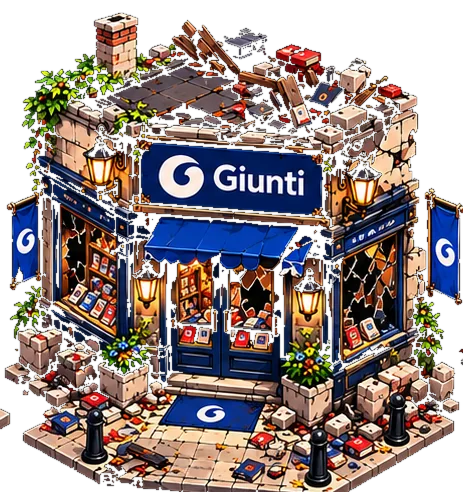
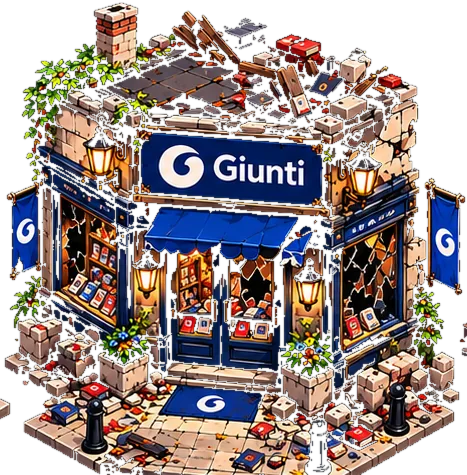
feat(art): integrate latest modular street and blue Giunti sprites

diff --git a/src/game/GameScene.ts b/src/game/GameScene.ts
@@ -55,8 +55,8 @@ type Loot = { sprite: Phaser.GameObjects.Image; kind: LootKind };
 const WIDTH = 960;
 const HEIGHT = 900;
 const FINISH_X = 25000;
-const ROAD_TOP = 120;
-const ROAD_BOTTOM = 780;
+const ROAD_TOP = 165;
+const ROAD_BOTTOM = 735;
 
 function distance(a: { x: number; y: number }, b: { x: number; y: number }): number {
   return Phaser.Math.Distance.Between(a.x, a.y, b.x, b.y);
@@ -706,7 +706,7 @@ export class GameScene extends Phaser.Scene {
     if (this.textures.exists('street-art')) {
       const street = this.add.tileSprite(0, 0, totalWidth, HEIGHT, 'street-art')
         .setOrigin(0, 0).setDepth(0);
-      // V4 artwork is a mirrored, horizontally seamless street image.
+      // The new modular-art roadway repeats seamlessly along the extended route.
       // Keep the pavement/curb proportions consistent when adapting its height.
       const sourceHeight = this.textures.get('street-art').source[0].height;
       const tileScale = HEIGHT / sourceHeight;
@@ -719,8 +719,8 @@ export class GameScene extends Phaser.Scene {
       for (let x = 30; x < totalWidth; x += 120) g.fillRect(x, HEIGHT / 2 - 3, 62, 6);
     }
 
-    // The blue Giunti bookstore is a real transparent sprite cropped from the
-    // approved art sheet. Alternate damaged/burning textures are preloaded for
+    // The blue Giunti bookstore is rendered using the latest transparent sprite
+    // separated from the updated art sheet. Alternate damaged/burning textures are preloaded for
     // future encounter phases, without changing the current victory logic.
     const storeX = FINISH_X + 150;
     const storeY = HEIGHT / 2;

diff --git a/README.md b/README.md
@@ -103,3 +103,13 @@ Il contenuto è una parodia videoludica e non è affiliato ad alcuna libreria o 
 - The original updated graphics atlas is retained at `public/assets/bookstore/giunti-atlas-v2.webp`.
 - The game preserves the 25,000-unit extended route and vertical camera movement; only background/store graphics changed in this update.
 - The alternate store states are loaded and ready for future encounter sequences; the game currently displays the intact storefront at the finish line.
+
+
+## Graphics refresh — modular street & Giunti illustrated atlas
+
+- A new clean 2000 × 900 scrolling street, assembled from the latest modular road sheet, replaces the prior road graphic in `public/assets/street/street-segment.webp`.
+- The full modular source sheet is saved at `public/assets/street/street-tileset.webp`.
+- The new blue-and-white Giunti art is split into three transparent, individually usable in-game sprites: `giunti.webp`, `giunti-damaged.webp`, and `giunti-fire.webp` inside `public/assets/bookstore/`.
+- Its complete reference atlas is saved as `public/assets/bookstore/giunti-atlas.webp`.
+- The playable zone is aligned to the road asphalt boundaries while maintaining the vertical-follow camera and XP system.
+- The current destination shows the intact storefront; damaged/fire sprites are loaded for the upcoming final encounter.
